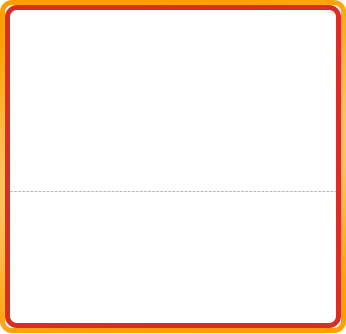
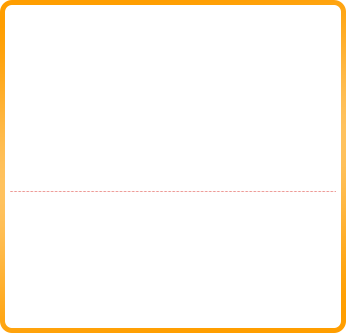
[Change] Spring theme

Changed region(s): [[0.0, 0.0, 1.0, 0.988]]

diff --git a/src/app/wechat/main/main.component.html b/src/app/wechat/main/main.component.html
@@ -1,6 +1,3 @@
-<div class="contain_all">
-
-
   <!--<div class="containers" #bg>-->
   <!--</div>-->
   <!--<div class="bgimg">-->
@@ -49,6 +46,7 @@
       <!--立即参与-->
       <!--<p class="title">.</p>-->
     </div>
+  <div class="contain_all">
   <div class="titleList" [hidden]="youshuiCompany">
     <div class="titleList_in" (click)="circleBtn(1)">
       <img src="../../../assets/main/mainIcon1.png" class="title_topImg">
@@ -74,8 +72,8 @@
   <div class="contain_btm clearfix">
     <!--<img [hidden]="youshuiCompany" (click)="vmLogin(2)" src="../../../assets/main/advertisement.png" alt="" class="advertisement">-->
     <div style="display: flex;width: 100%;height: 20px;margin-bottom: 12px" *ngIf="isEightDoor">
-      <img (click)="eigthDoorChoose(0)" [src]="(eightDoorFlag === 0) ?'../../../assets/main/normal.png':'../../../assets/main/cold.png'"  alt="" style="width: 50%;height: 30px"><span (click)="eigthDoorChoose(0)" style="position: absolute;left: 15%;color: white;top: 182px;">点击冷藏商品</span>
-      <img (click)="eigthDoorChoose(1)" [src]="(eightDoorFlag === 1) ?'../../../assets/main/normal.png':'../../../assets/main/cold.png'"   alt="" style="width: 50%;height: 30px"><span (click)="eigthDoorChoose(1)" style="position: absolute;right: 15%;color: white;top: 182px;">点击常温商品</span>
+      <img (click)="eigthDoorChoose(0)" [src]="(eightDoorFlag === 0) ?'../../../assets/main/normal.png':'../../../assets/main/cold.png'"  alt="" style="width: 50%;height: 30px"><span (click)="eigthDoorChoose(0)" style="position: absolute;left: 15%;color: white;top: 66px;">点击冷藏商品</span>
+      <img (click)="eigthDoorChoose(1)" [src]="(eightDoorFlag === 1) ?'../../../assets/main/normal.png':'../../../assets/main/cold.png'"   alt="" style="width: 50%;height: 30px"><span (click)="eigthDoorChoose(1)" style="position: absolute;right: 15%;color: white;top: 66px;">点击常温商品</span>
     </div>
     <p class="title" [hidden]="isScanImg">.</p>
     <img (click)="scan()" *ngIf="isScanImg" src="../../../assets/main/scan.png" alt="" style="width: 90%;margin-top: 25%;margin-left: 5%">
@@ -129,7 +127,7 @@
 
     <div class="context" *ngIf="isFourDoor">
       <div (click)="openDoor(item)" *ngFor="let item of indexList" [ngClass]="item['wayItemList'].length === 1 ? 'box-one' : 'box'" class=" card text-white mb-3">
-        <img [hidden]="showActiveItem(item['wayItemList'], baoliCompany)" [src]="" alt="" width="60" style="position: absolute">
+        <img [hidden]="showActiveItem(item['wayItemList'], baoliCompany)" [src]="showActiveImg" alt="" width="60" style="position: absolute">
         <div [ngClass]="item['wayItemList'].length === 1 ? 'box-body-one' : 'box-body'">
           <img class="col-img" src="{{img}}{{item['wayItemList'][0]['pic']}}" alt="">
           <br/>

diff --git a/src/app/alipay/main/main.component.html b/src/app/alipay/main/main.component.html
@@ -1,4 +1,3 @@
-<div class="contain_all">
 
   <div class="logo">
     <carousel>
@@ -27,6 +26,7 @@
     <!--立即参与-->
     <!--<p class="title">.</p>-->
   </div>
+  <div class="contain_all">
   <div class="titleList" [hidden]="youshuiCompany">
     <div class="titleList_in" (click)="circleBtn(1)">
       <img src="../../../assets/main/mainIcon1.png" class="title_topImg">
@@ -52,8 +52,8 @@
   <div class="contain_btm clearfix">
     <!--<img [hidden]="youshuiCompany" (click)="vmLogin(2)" src="../../../assets/main/advertisement.png" alt="" class="advertisement">-->
     <div style="display: flex;width: 100%;height: 20px;margin-bottom: 12px" *ngIf="isEightDoor">
-      <img (click)="eigthDoorChoose(0)" [src]="(eightDoorFlag === 0) ?'../../../assets/main/normal.png':'../../../assets/main/cold.png'"  alt="" style="width: 50%;height: 30px"><span (click)="eigthDoorChoose(0)" style="position: absolute;left: 15%;color: white;top: 172px;">点击冷藏商品</span>
-      <img (click)="eigthDoorChoose(1)" [src]="(eightDoorFlag === 1) ?'../../../assets/main/normal.png':'../../../assets/main/cold.png'"   alt="" style="width: 50%;height: 30px"><span (click)="eigthDoorChoose(1)" style="position: absolute;right: 15%;color: white;top: 172px;">点击常温商品</span>
+      <img (click)="eigthDoorChoose(0)" [src]="(eightDoorFlag === 0) ?'../../../assets/main/normal.png':'../../../assets/main/cold.png'"  alt="" style="width: 50%;height: 30px"><span (click)="eigthDoorChoose(0)" style="position: absolute;left: 15%;color: white;top: 77px;">点击冷藏商品</span>
+      <img (click)="eigthDoorChoose(1)" [src]="(eightDoorFlag === 1) ?'../../../assets/main/normal.png':'../../../assets/main/cold.png'"   alt="" style="width: 50%;height: 30px"><span (click)="eigthDoorChoose(1)" style="position: absolute;right: 15%;color: white;top: 77px;">点击常温商品</span>
     </div>
     <p class="title">.</p>
     <div class="context-five" *ngIf="isFiveDoor">
@@ -121,7 +121,7 @@
     <div class="context" *ngIf="isFourDoor">
       <div (click)="openDoor(item)" *ngFor="let item of indexList"
            [ngClass]="item['wayItemList'].length === 1 ? 'box-one' : 'box'" class=" card text-white mb-3">
-        <img [hidden]="showActiveItem(item['wayItemList'], baoliCompany)" src="../../../assets/main/send.png" alt="" width="60" style="position: absolute">
+        <img [hidden]="showActiveItem(item['wayItemList'], baoliCompany)" src="" alt="" width="60" style="position: absolute">
         <div [ngClass]="item['wayItemList'].length === 1 ? 'box-body-one' : 'box-body'">
           <img class="col-img" src="{{img}}{{item['wayItemList'][0]['pic']}}" alt="">
           <br/>

diff --git a/src/app/wechat/main/main.component.ts b/src/app/wechat/main/main.component.ts
@@ -256,7 +256,8 @@ export class MainComponent implements OnInit {
       if (item.length > 1) {
         if (list.includes(item[0].basicItemId) || list.includes(item[1].basicItemId)) {
           if (item[0].basicItemId === '2194' || item[1].basicItemId === '2194') {
-            this.showActiveImg = '../../../assets/main/send.png';
+            // this.showActiveImg = '../../../assets/main/send.png';
+            this.showActiveImg = '';
           } else if (item[0].basicItemId === '2975' || item[1].basicItemId === '2975') {
             this.showActiveImg = '../../../assets/main/send2.png';
           }
@@ -267,7 +268,8 @@ export class MainComponent implements OnInit {
       } else {
         if (list.includes(item[0].basicItemId)) {
           if (item[0].basicItemId === '2194') {
-            this.showActiveImg = '../../../assets/main/send.png';
+            // this.showActiveImg = '../../../assets/main/send.png';
+            this.showActiveImg = '';
           } else if (item[0].basicItemId === '2975') {
             this.showActiveImg = '../../../assets/main/send2.png';
           }
@@ -530,7 +532,7 @@ export class MainComponent implements OnInit {
           );
         }
       }
-    }, 1000);
+    }, 100);
   }
   /**
    * 2019-02-16
@@ -568,12 +570,13 @@ export class MainComponent implements OnInit {
           if (this.checkTimes === 0) {
             alert('网络延迟，请重试开门');
             this.isVisibleOpenDoor = false;
+            this.isConfirmLoading = false;
             clearTimeout(time);
             this.checkTimes = 10;
           } else {
             time = setTimeout(() => {
               this.checkIsOpen(flag);
-            }, 1000);
+            }, 500);
           }
         }
       },

diff --git a/src/app/alipay/main/main.component.css b/src/app/alipay/main/main.component.css
@@ -1,14 +1,17 @@
 .contain_all {
   width: 100%;
+  height: 102%;
   position: relative;
   background: url("../../../assets/main/bg.png") no-repeat;
+  background-size: 100% 70%;
 }
 @media screen and (min-height: 581px) {
   .contain_all {
     width: 100%;
-    height: 711px;
+    height: 102%;
     position: relative;
     background: url("../../../assets/main/bg.png") no-repeat;
+    background-size: 100% 70%;
   }
 }
 .logo {
@@ -54,7 +57,7 @@
   font-size: 12px;
   width: 100%;
   text-align: center;
-  color: #fff;
+  color: #333333;
 }
 .clearfix:after {
   content: '\20';
@@ -732,7 +735,7 @@
   }
   .text{
     width: 98%;
-    margin-bottom: -5px;
+    margin-bottom: -8px;
     color: #fff;
     font-weight: 100;
     overflow: hidden;

diff --git a/src/app/wechat/main/main.component.css b/src/app/wechat/main/main.component.css
@@ -1,14 +1,17 @@
 .contain_all {
   width: 100%;
+  height: 102%;
   position: relative;
   background: url("../../../assets/main/bg.png") no-repeat;
+  background-size: 100% 70%;
 }
 @media screen and (min-height: 581px) {
   .contain_all {
     width: 100%;
-    height: 711px;
+    height: 102%;
     position: relative;
     background: url("../../../assets/main/bg.png") no-repeat;
+    background-size: 100% 70%;
   }
 }
 .logo {
@@ -59,7 +62,7 @@
   font-size: 12px;
   width: 100%;
   text-align: center;
-  color: #fff;
+  color: #333333;
 }
 .clearfix:after {
   content: '\20';
@@ -737,7 +740,7 @@
   }
   .text{
     width: 98%;
-    margin-bottom: -5px;
+    margin-bottom: -8px;
     color: #fff;
     font-weight: 100;
     overflow: hidden;

diff --git a/src/app/alipay/main/main.component.ts b/src/app/alipay/main/main.component.ts
@@ -307,7 +307,7 @@ export class MainComponent implements OnInit {
           }
         );
       }
-    }, 1000);
+    }, 100);
   }
   /**
    * 2019-02-16
@@ -480,6 +480,7 @@ export class MainComponent implements OnInit {
           if (this.checkTimes === 0) {
             alert('网络延迟，请重试开门');
             this.isVisibleOpenDoor = false;
+            this.isConfirmLoading = false;
             clearTimeout(time);
             this.checkTimes = 10;
           } else {
